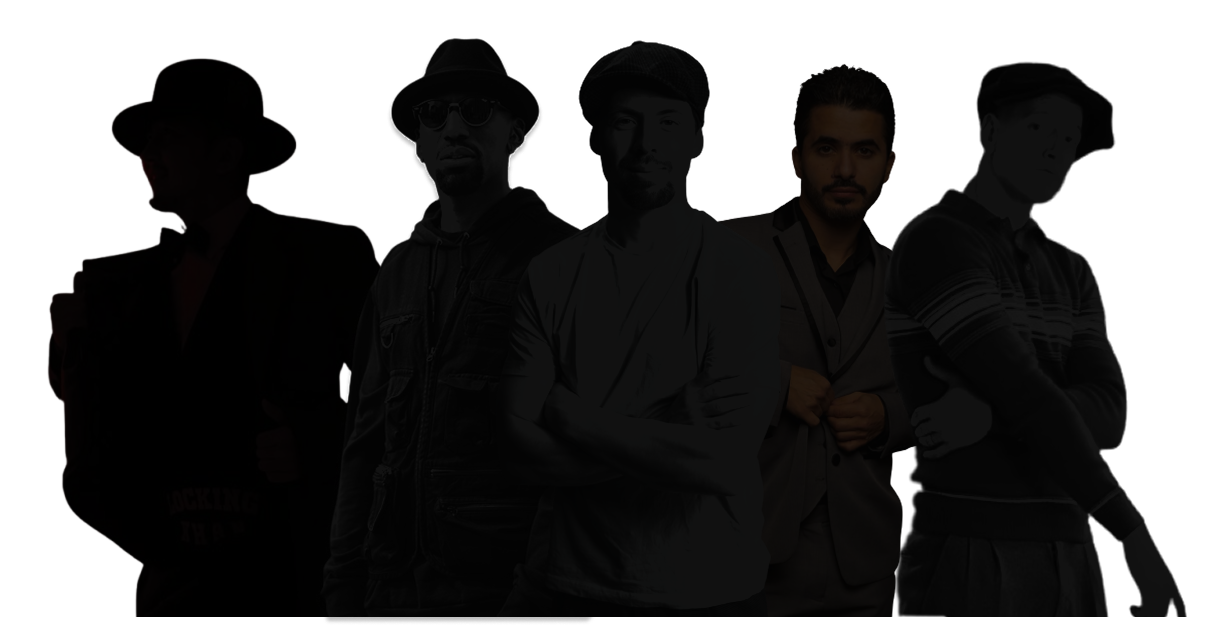
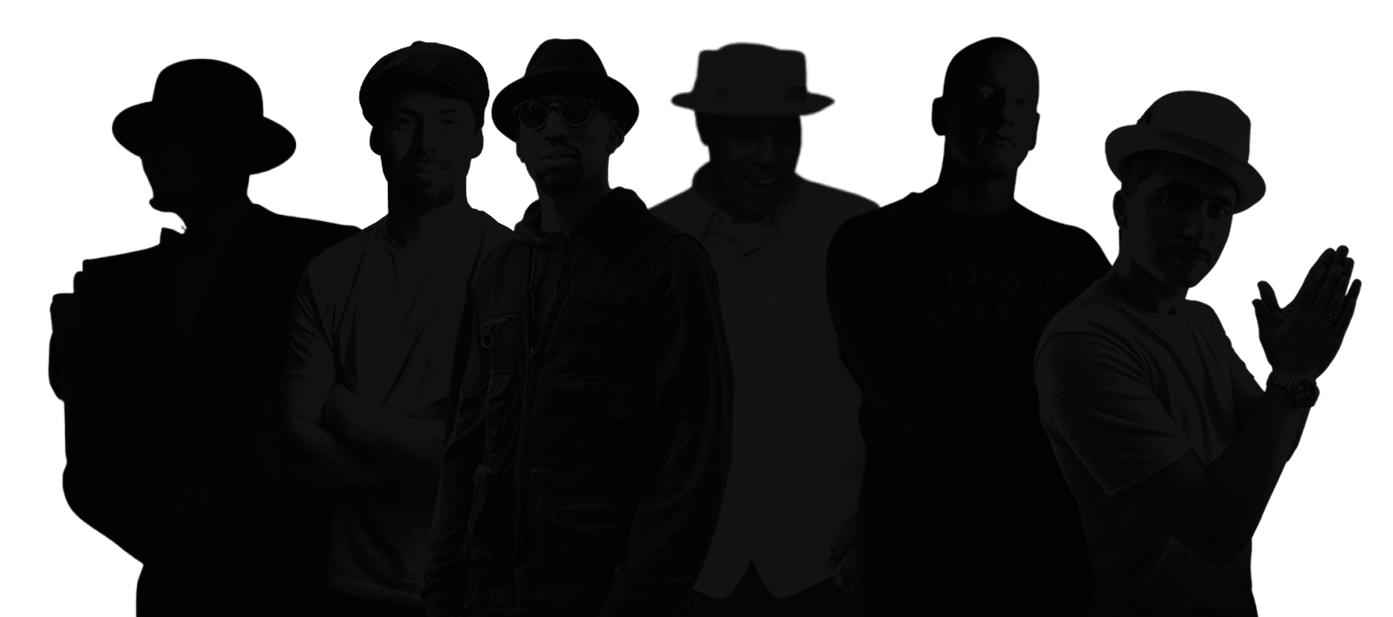
hero update

diff --git a/src/data/teachers.ts b/src/data/teachers.ts
@@ -24,7 +24,7 @@ export const teacherData: Teacher[] = [
     id: 2,
     slug: 'khan',
     name: 'Khan',
-    country: 'TBA',
+    country: 'KR',
     img: '/teachers/t1.png',
     title: 'Khan',
     subtitle: 'More info coming soon',
@@ -66,7 +66,7 @@ export const teacherData: Teacher[] = [
     name: 'Tony Gogo',
     country: 'US',
     img: '/teachers/t6.png',
-    title: 'Tony Gogo',
+    title: 'Anthony Foster',
     subtitle: 'The Gogo Brothers',
     desc: 'Tony “Go-Go” Lewis is an original locking pioneer from the United States and one of the early members of The Go-Go Brothers, a legendary crew connected to the foundation of locking culture. He also performed with The Lockers, the iconic group that helped bring locking to the world stage in the 1970s. Now based in Japan, Tony has played a major role in spreading and teaching locking internationally, inspiring generations of dancers with his funk, groove, history, and original style. His legacy continues through his teaching, his influence on Japanese locking culture, and the next generation of Go-Go Brothers',
   },

diff --git a/src/app/_components/Hero.module.scss b/src/app/_components/Hero.module.scss
@@ -151,7 +151,7 @@
   position: relative;
   width: 100%;
   height: clamp(400px, 52vw, 600px);
-  margin-bottom: 4rem;
+  margin-bottom: 4.5rem;
 }
 
 .heroImage {
